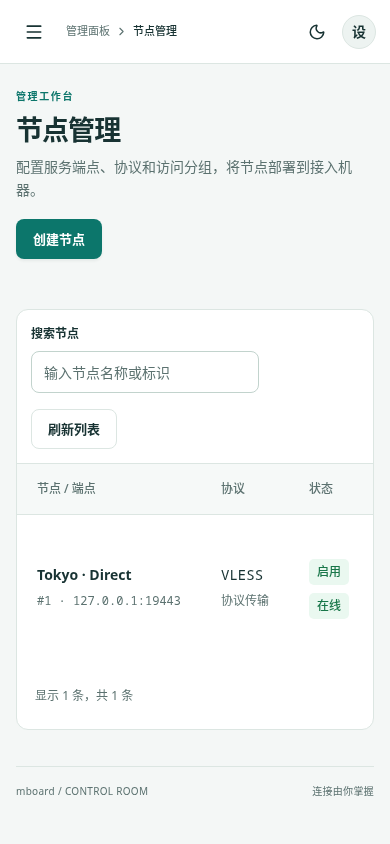
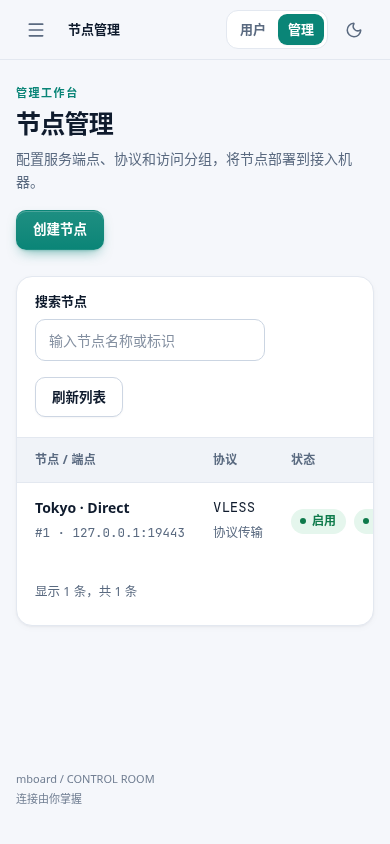
chore: cap the write-ahead log at 32 MiB

diff --git a/src/web/styles.css b/src/web/styles.css
@@ -699,6 +699,7 @@ strong {
 }
 .field {
   display: grid;
+  align-content: start;
   gap: 7px;
   min-width: 0;
 }
@@ -1687,6 +1688,13 @@ strong {
   font-size: 12.5px;
   margin: 4px 0;
 }
+.mb-custom-record > .mb-custom-meta {
+  display: block;
+  margin: 2px 0 0;
+}
+.data-table td .mb-custom-actions {
+  flex-wrap: nowrap;
+}
 .mb-custom-actions {
   display: flex;
   gap: 8px;
@@ -1769,9 +1777,10 @@ strong {
   gap: 22px;
 }
 .mb-custom-content-tabs {
-  display: inline-flex;
+  display: flex;
+  width: fit-content;
+  max-width: 100%;
   gap: 4px;
-  margin-bottom: 20px;
   padding: 4px;
   border: 1px solid var(--border);
   border-radius: 12px;
@@ -2422,6 +2431,9 @@ body,
   .kpi-grid,
   .kpi-grid.is-three {
     grid-template-columns: repeat(2, minmax(0, 1fr));
+  }
+  .kpi-grid > .card:last-child:nth-child(odd) {
+    grid-column: 1 / -1;
   }
   .dashboard-grid {
     grid-template-columns: 1fr;

diff --git a/src/server/database.ts b/src/server/database.ts
@@ -7,7 +7,7 @@ export function openDatabase(path = ':memory:') {
   const existed = path === ':memory:' || existsSync(path);
   const db = new Database(path, { create: true, strict: true });
   if (!existed) chmodSync(path, 0o600);
-  db.exec(`PRAGMA foreign_keys=ON; PRAGMA journal_mode=WAL; PRAGMA busy_timeout=5000;`);
+  db.exec(`PRAGMA foreign_keys=ON; PRAGMA journal_mode=WAL; PRAGMA busy_timeout=5000; PRAGMA journal_size_limit=33554432;`);
   // Numbered, transactionally applied schema migrations. No fixtures or default accounts.
   const version = (db.query('PRAGMA user_version').get() as any).user_version;
   if (version > 4) throw new Error('Database schema is newer than this server');

diff --git a/tests/browser/workspace.spec.ts b/tests/browser/workspace.spec.ts
@@ -249,7 +249,7 @@ test("桌面和移动布局、双主题、页面能力文案", async ({ page }) 
   await page.getByRole("button", { name: "切换深色主题" }).click();
   await expect(page.locator("html")).toHaveClass("dark");
   await invariant(page);
-  await expect(page.locator(".kpi-card").first()).toHaveCSS("background-color", "rgb(24, 47, 46)");
+  await expect(page.locator(".kpi-card").first()).toHaveCSS("background-color", "rgb(17, 26, 43)");
   await page.screenshot({ path: "docs/review/user-dark.png", fullPage: true, animations: "disabled" });
   expect(errors).toEqual([]);
   const metrics = await page.evaluate(() => {

diff --git a/design.md b/design.md
@@ -1,7 +1,7 @@
 ---
 name: mboard-design
 description: mboard 的用户和管理界面，覆盖仪表盘、密集列表、主从编辑器和登录表单，以清晰的数据层级服务桌面和移动阅读。
-version: motion-2026-10-13
+version: aurora-2026-11-11
 ---
 
 # mboard design
@@ -12,12 +12,12 @@ version: motion-2026-10-13
 [MUST] 每个页面用一个 h1 表达页面主题。
 
 ## 2. 品牌和读者
-[SHOULD] Decision：用深墨导航、浅灰绿画布、青绿操作表达独立的工具品牌。来源：独立 mboard 重写要求和高密度管理界面的阅读需求。
+[SHOULD] Decision：用冷灰蓝画布、白色内容面、青绿主操作和靛蓝辅助色表达独立的工具品牌；订阅主卡和登录侧栏使用青绿到靛蓝的渐变（--hero）。来源：2026-11 界面重设计要求。
 [SHOULD] Decision：标题和数据用明显的尺寸对比，辅助信息保持 12px 以上。来源：原界面的 11px 元数据需要更清晰的阅读层级。
 [MUST] 文案直接说明能力、结果和下一步操作。空状态给出可执行的入口。风险文案准确说明操作后果。
 
 ## 3. 页面结构和构图
-[SHOULD] Decision：桌面导航固定宽 232px，主区域用顶部路径、页面标题和内容组成。来源：现有 Shell 的分区导航和桌面阅读密度。
+[SHOULD] Decision：桌面导航固定宽 264px，使用浅色（深色主题为深蓝）侧栏，菜单按任务分组（总览、网络资源、用户与权限、内容与支持、系统），底部是用户卡片和退出按钮。主区域由吸顶毛玻璃顶栏（路径、管理员的用户/管理面板切换、主题按钮）、页面标题和内容组成，内容区以 24px 纵向间距排布。来源：2026-11 界面重设计。
 [SHOULD] 仪表盘首屏先呈现主题和核心数值，然后呈现时间序列和相关列表。次要信息放在右侧或页面下半部。
 [SHOULD] 密集列表用标题操作区、工具栏、可横向滚动的数据表和页脚组成。
 [SHOULD] 主从编辑器以清晰标签分组，把动作放在表单末尾。长表单和弹窗各自滚动。
@@ -64,6 +64,7 @@ version: motion-2026-10-13
 | 状态 | Badge, EmptyState, ErrorState | src/web/ui.tsx | 状态反馈 | 已实现 |
 | 浮层 | Modal | src/web/ui.tsx | 对话框和主从编辑器 | 已实现 |
 | 数据 | .data-table, .table-wrap, .kpi-grid, .kpi-value, .mono | src/web/styles.css | 表格和数值 | 已实现 |
+| 图标徽标 | StatCard（kpi-card、kpi-icon、kpi-link）、PasswordInput、.panel-switch、.sidebar-user | src/web/ui.tsx, App.tsx, styles.css | 指标卡、密码显隐、面板切换、侧栏用户 | 已实现 |
 | 动效 | --motion-fast=160ms, --motion-control=240ms, --motion-enter=560ms, --motion-data=760ms, --motion-ease=cubic-bezier(0.22,1,0.36,1), --motion-exit-ease=cubic-bezier(0.4,0,1,1) | src/web/styles.css | 页面、控件、表面与浮层 | 已实现 |
 | 动态数值 | AnimatedValue(value, format?, duration?); useReducedMotion | src/web/motion.tsx | 真实数值、最终值可读、减少动态效果 | 已实现 |
 | 图表 | TrafficChart | src/web/TrafficChart.tsx | 按日期的字节时间序列 | 已实现 |
